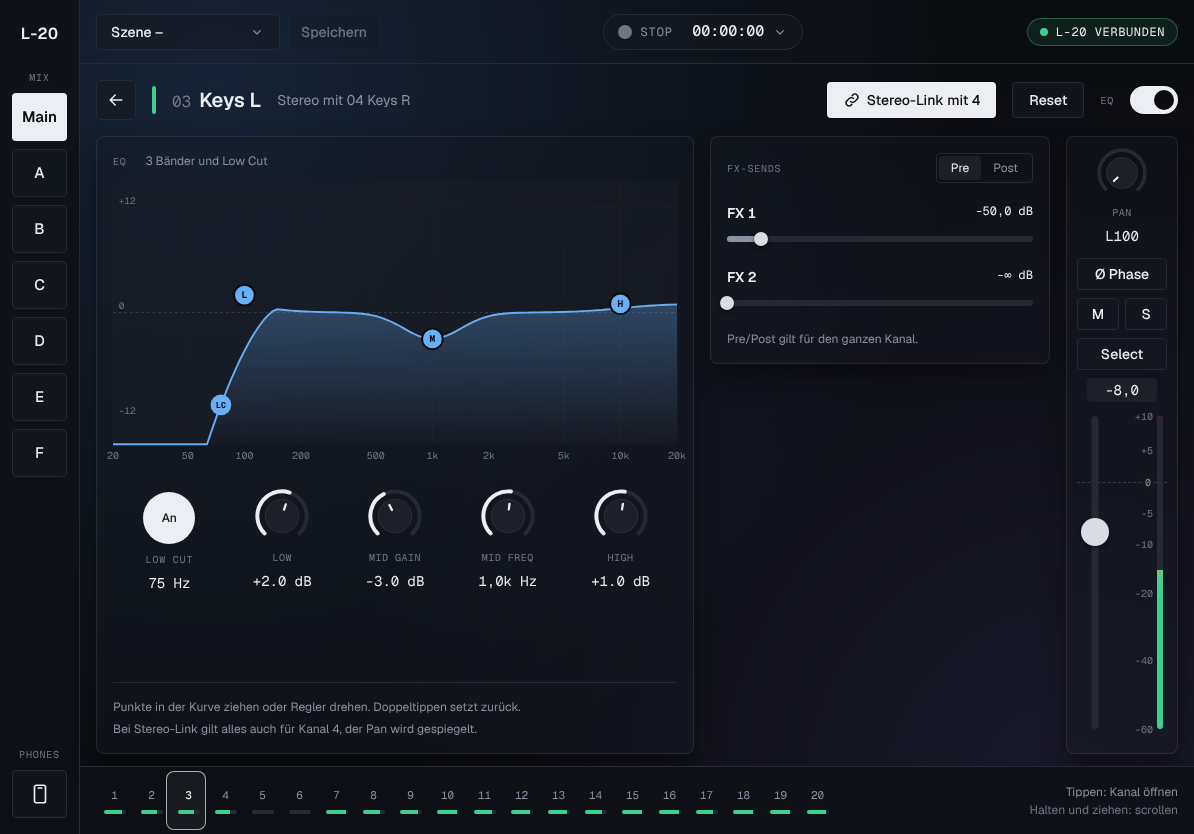
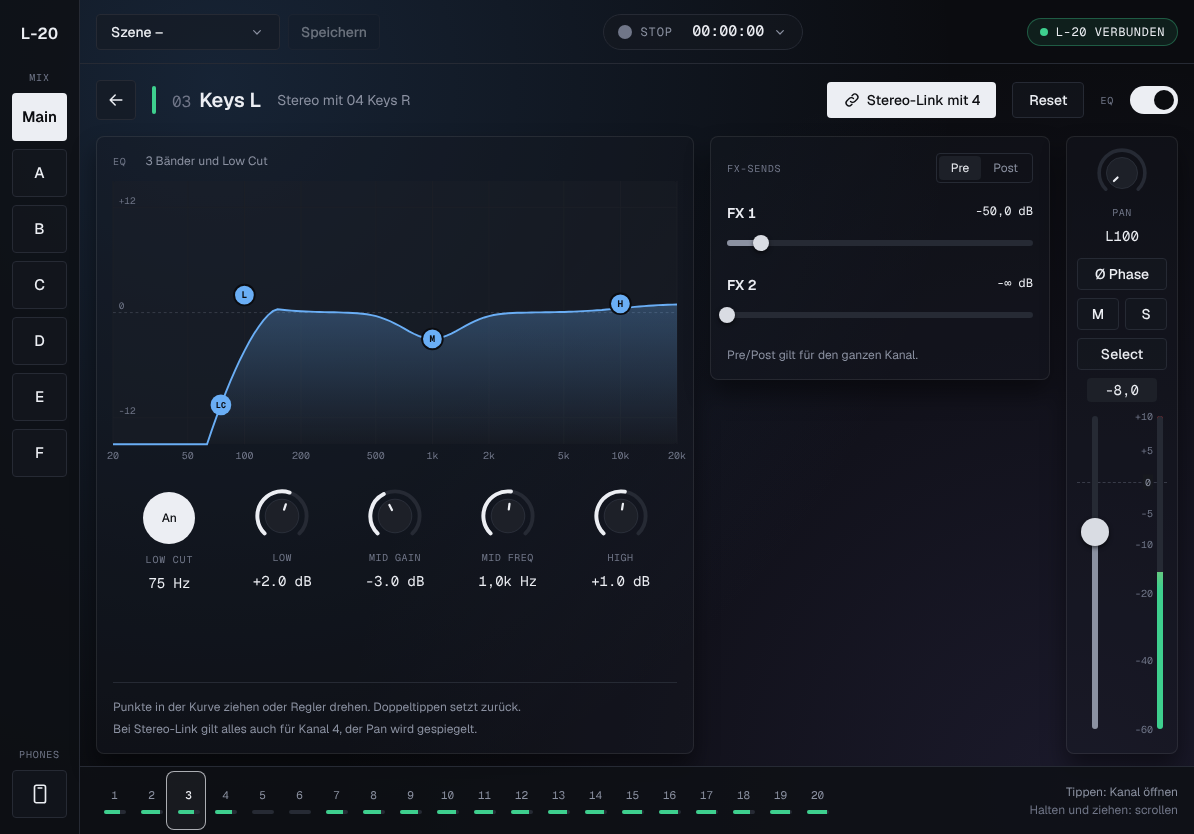
refactor(ui): one Slider for faders, sends and pan
Ron: channel fader and FX send sliders looked different. Both now use
the same track, fill and thumb; channel and mix faders get the big handle.

Claude-Session: https://claude.ai/code/session_01KbLEJ1Gsh3xGpwrhXZZo4P

diff --git a/src/ui/components/controls.tsx b/src/ui/components/controls.tsx
@@ -69,30 +69,20 @@ export function Fader({
   levels: (number | undefined)[]
   label: string
 }) {
-  const drag = useDrag(dbToPos(db), (p) => onChange(posToDb(p)), 'y')
   return (
     <div className="relative flex min-h-0 flex-1 justify-between px-1 py-3.5">
       <div
         className="border-fg3/40 absolute inset-x-0 border-t border-dashed"
         style={{ top: `calc(14px + ${dbToPos(0)} * (100% - 28px))` }}
       />
-      <div
-        {...drag}
-        role="slider"
-        aria-label={label}
-        aria-valuemin={-60}
-        aria-valuemax={10}
-        aria-valuenow={db}
-        aria-valuetext={`${formatDb(db)} dB`}
-        className="absolute inset-y-0 left-0 z-10 w-1/2 cursor-grab"
+      <Slider
+        axis="y"
+        handle="lg"
+        pos={dbToPos(db)}
+        onPos={(p) => onChange(posToDb(p))}
+        label={label}
+        valueText={`${formatDb(db)} dB`}
       />
-      <div className="relative w-7">
-        <div className="bg-track absolute inset-y-0 left-1/2 w-[7px] -translate-x-1/2 rounded-full" />
-        <div
-          className="bg-thumb absolute left-1/2 size-7 -translate-1/2 rounded-full shadow-[0_2px_4px_rgb(0_0_0/0.6)]"
-          style={{ top: `${dbToPos(db) * 100}%` }}
-        />
-      </div>
       <div className="text-fg3 relative flex-1 font-mono text-[10px]">
         {SCALE_MARKS.map((m) => (
           <span
@@ -116,55 +106,71 @@ export function Fader({
   )
 }
 
-/** Horizontal slider, pos 0…1. `origin` 0.5 fills from the centre (pan). */
-export function HSlider({
+/**
+ * The one slider for faders, sends and pan: same track, fill and thumb everywhere.
+ * pos 0…1 (y: 0 = top). Fill runs from `origin` (default: bottom/left; 0.5 = centre for pan).
+ * `handle` lg = big thumb for channel and mix faders.
+ */
+export function Slider({
   pos,
   onPos,
-  origin = 0,
+  axis = 'x',
+  origin = axis === 'y' ? 1 : 0,
   mark,
+  handle = 'sm',
   label,
   valueText,
-  big,
 }: {
   pos: number
   onPos: (pos: number) => void
+  axis?: 'x' | 'y'
   origin?: number
   mark?: number
+  handle?: 'sm' | 'lg'
   label: string
   valueText: string
-  big?: boolean
 }) {
-  const drag = useDrag(pos, onPos, 'x')
-  const thumb = big ? 'size-7' : 'size-3.5'
+  const drag = useDrag(pos, onPos, axis)
+  const y = axis === 'y'
+  const at = (p: number) => ({ [y ? 'top' : 'left']: `${p * 100}%` })
   return (
     <div
       {...drag}
       role="slider"
       aria-label={label}
+      aria-orientation={y ? 'vertical' : 'horizontal'}
       aria-valuetext={valueText}
-      aria-valuenow={Math.round(pos * 100)}
-      className={cn('relative cursor-grab', big ? 'h-12' : 'h-4')}
+      aria-valuenow={Math.round((y ? 1 - pos : pos) * 100)}
+      className={cn('relative shrink-0 cursor-grab', y ? 'w-7' : handle === 'lg' ? 'h-12' : 'h-6')}
     >
-      <div className="bg-track absolute inset-x-0 top-1/2 h-1.5 -translate-y-1/2 rounded-full" />
       <div
-        className="bg-fg2 absolute top-1/2 h-1.5 -translate-y-1/2 rounded-full"
+        className={cn(
+          'bg-track absolute rounded-full',
+          y
+            ? 'inset-y-0 left-1/2 w-1.5 -translate-x-1/2'
+            : 'inset-x-0 top-1/2 h-1.5 -translate-y-1/2',
+        )}
+      />
+      <div
+        className={cn(
+          'bg-fg2 absolute rounded-full',
+          y ? 'left-1/2 w-1.5 -translate-x-1/2' : 'top-1/2 h-1.5 -translate-y-1/2',
+        )}
         style={{
-          left: `${Math.min(pos, origin) * 100}%`,
-          width: `${Math.abs(pos - origin) * 100}%`,
+          ...at(Math.min(pos, origin)),
+          [y ? 'height' : 'width']: `${Math.abs(pos - origin) * 100}%`,
         }}
       />
-      {mark !== undefined && (
-        <div
-          className="bg-fg3 absolute top-0 h-2 w-px"
-          style={{ left: `${mark * 100}%`, top: big ? 4 : 0 }}
-        />
+      {mark !== undefined && !y && (
+        <div className="bg-fg3 absolute top-[calc(50%-14px)] h-2 w-px" style={at(mark)} />
       )}
       <div
         className={cn(
-          'bg-thumb absolute top-1/2 -translate-1/2 rounded-full shadow-[0_2px_4px_rgb(0_0_0/0.6)]',
-          thumb,
+          'bg-thumb absolute -translate-1/2 rounded-full shadow-[0_2px_4px_rgb(0_0_0/0.6)]',
+          y ? 'left-1/2' : 'top-1/2',
+          handle === 'lg' ? 'size-7' : 'size-4',
         )}
-        style={{ left: `${pos * 100}%` }}
+        style={at(pos)}
       />
     </div>
   )

diff --git a/src/ui/screens/Phone.tsx b/src/ui/screens/Phone.tsx
@@ -3,7 +3,7 @@ import type { MonitorMixId } from '@/lib/mixer'
 import { dbToPos, formatDb, posToDb } from '@/lib/scale'
 import { cn } from '@/lib/utils'
 import { useMixerStore } from '@/state/mixerStore'
-import { Btn, HMeter, HSlider, Icon, Label, StatusPill, ValueBox } from '../components/controls'
+import { Btn, HMeter, Slider, Icon, Label, StatusPill, ValueBox } from '../components/controls'
 import { channelGroups, mixLevel, sendLevel, type ChannelGroup } from '../mixView'
 
 const toPos = (db: number) => 1 - dbToPos(db)
@@ -102,8 +102,8 @@ export function Phone({ mix }: { mix: MonitorMixId }) {
           <Label className="text-xs">Mix {mix} Output</Label>
           <ValueBox className="text-base">{formatDb(bus.fader)}</ValueBox>
         </div>
-        <HSlider
-          big
+        <Slider
+          handle="lg"
           pos={toPos(bus.fader)}
           onPos={(p) => dispatch({ type: 'bus', mix, patch: { fader: posToDb(1 - p) } })}
           mark={ZERO}
@@ -145,8 +145,8 @@ function SendRow({ g, mix }: { g: ChannelGroup; mix: MonitorMixId }) {
         <ValueBox className="ml-auto text-base">{formatDb(db)}</ValueBox>
       </div>
       {/* the store mirrors the send onto the stereo partner */}
-      <HSlider
-        big
+      <Slider
+        handle="lg"
         pos={toPos(db)}
         onPos={(p) =>
           dispatch({ type: 'send', ch: g.ids[0], mix, patch: { level: posToDb(1 - p) } })

diff --git a/src/ui/screens/ChannelDetail.tsx b/src/ui/screens/ChannelDetail.tsx
@@ -2,7 +2,7 @@ import { EQ_GAIN_MAX, type Eq, type FxMixId } from '@/lib/mixer'
 import { dbToPos, formatDb, formatPan, posToDb } from '@/lib/scale'
 import { cn } from '@/lib/utils'
 import { useMixerStore } from '@/state/mixerStore'
-import { Btn, Fader, HSlider, Icon, Knob, Label, ValueBox } from '../components/controls'
+import { Btn, Fader, Slider, Icon, Knob, Label, ValueBox } from '../components/controls'
 import { EqGraph } from '../components/EqGraph'
 import { channelNo, formatHz, linkCommand } from '../mixView'
 
@@ -160,7 +160,7 @@ export function ChannelDetail({ ch, onBack }: { ch: number; onBack: () => void }
                 <span className="font-semibold">{mix === 'fx1' ? 'FX 1' : 'FX 2'}</span>
                 <span className="font-mono text-xs">{formatDb(c.sends[mix].level)} dB</span>
               </div>
-              <HSlider
+              <Slider
                 pos={1 - dbToPos(c.sends[mix].level)}
                 onPos={(p) => dispatch({ type: 'send', ch, mix, patch: { level: posToDb(1 - p) } })}
                 label={`Send ${mix}`}

diff --git a/src/ui/screens/Console.tsx b/src/ui/screens/Console.tsx
@@ -2,7 +2,7 @@ import { type Channel, type FxMixId, type MonitorMixId } from '@/lib/mixer'
 import { dbToPos, formatDb, formatPan } from '@/lib/scale'
 import { cn } from '@/lib/utils'
 import { useMixerStore } from '@/state/mixerStore'
-import { Btn, Fader, HSlider, Icon, Label, ValueBox } from '../components/controls'
+import { Btn, Fader, Slider, Icon, Label, ValueBox } from '../components/controls'
 import { MiniEq } from '../components/EqGraph'
 import { channelNo, linkCommand, mixLevel, sendLevel, type View } from '../mixView'
 
@@ -147,7 +147,7 @@ function Strip({ c, mix, onOpen }: { c: Channel; mix: View; onOpen: (ch: number)
         {send ? (
           <div className="text-fg3 mt-1 text-[10px]">nur im Main-Mix</div>
         ) : (
-          <HSlider
+          <Slider
             pos={(c.pan + 100) / 200}
             onPos={(p) =>
               dispatch({ type: 'channel', ch: c.id, patch: { pan: Math.round(p * 200 - 100) } })
